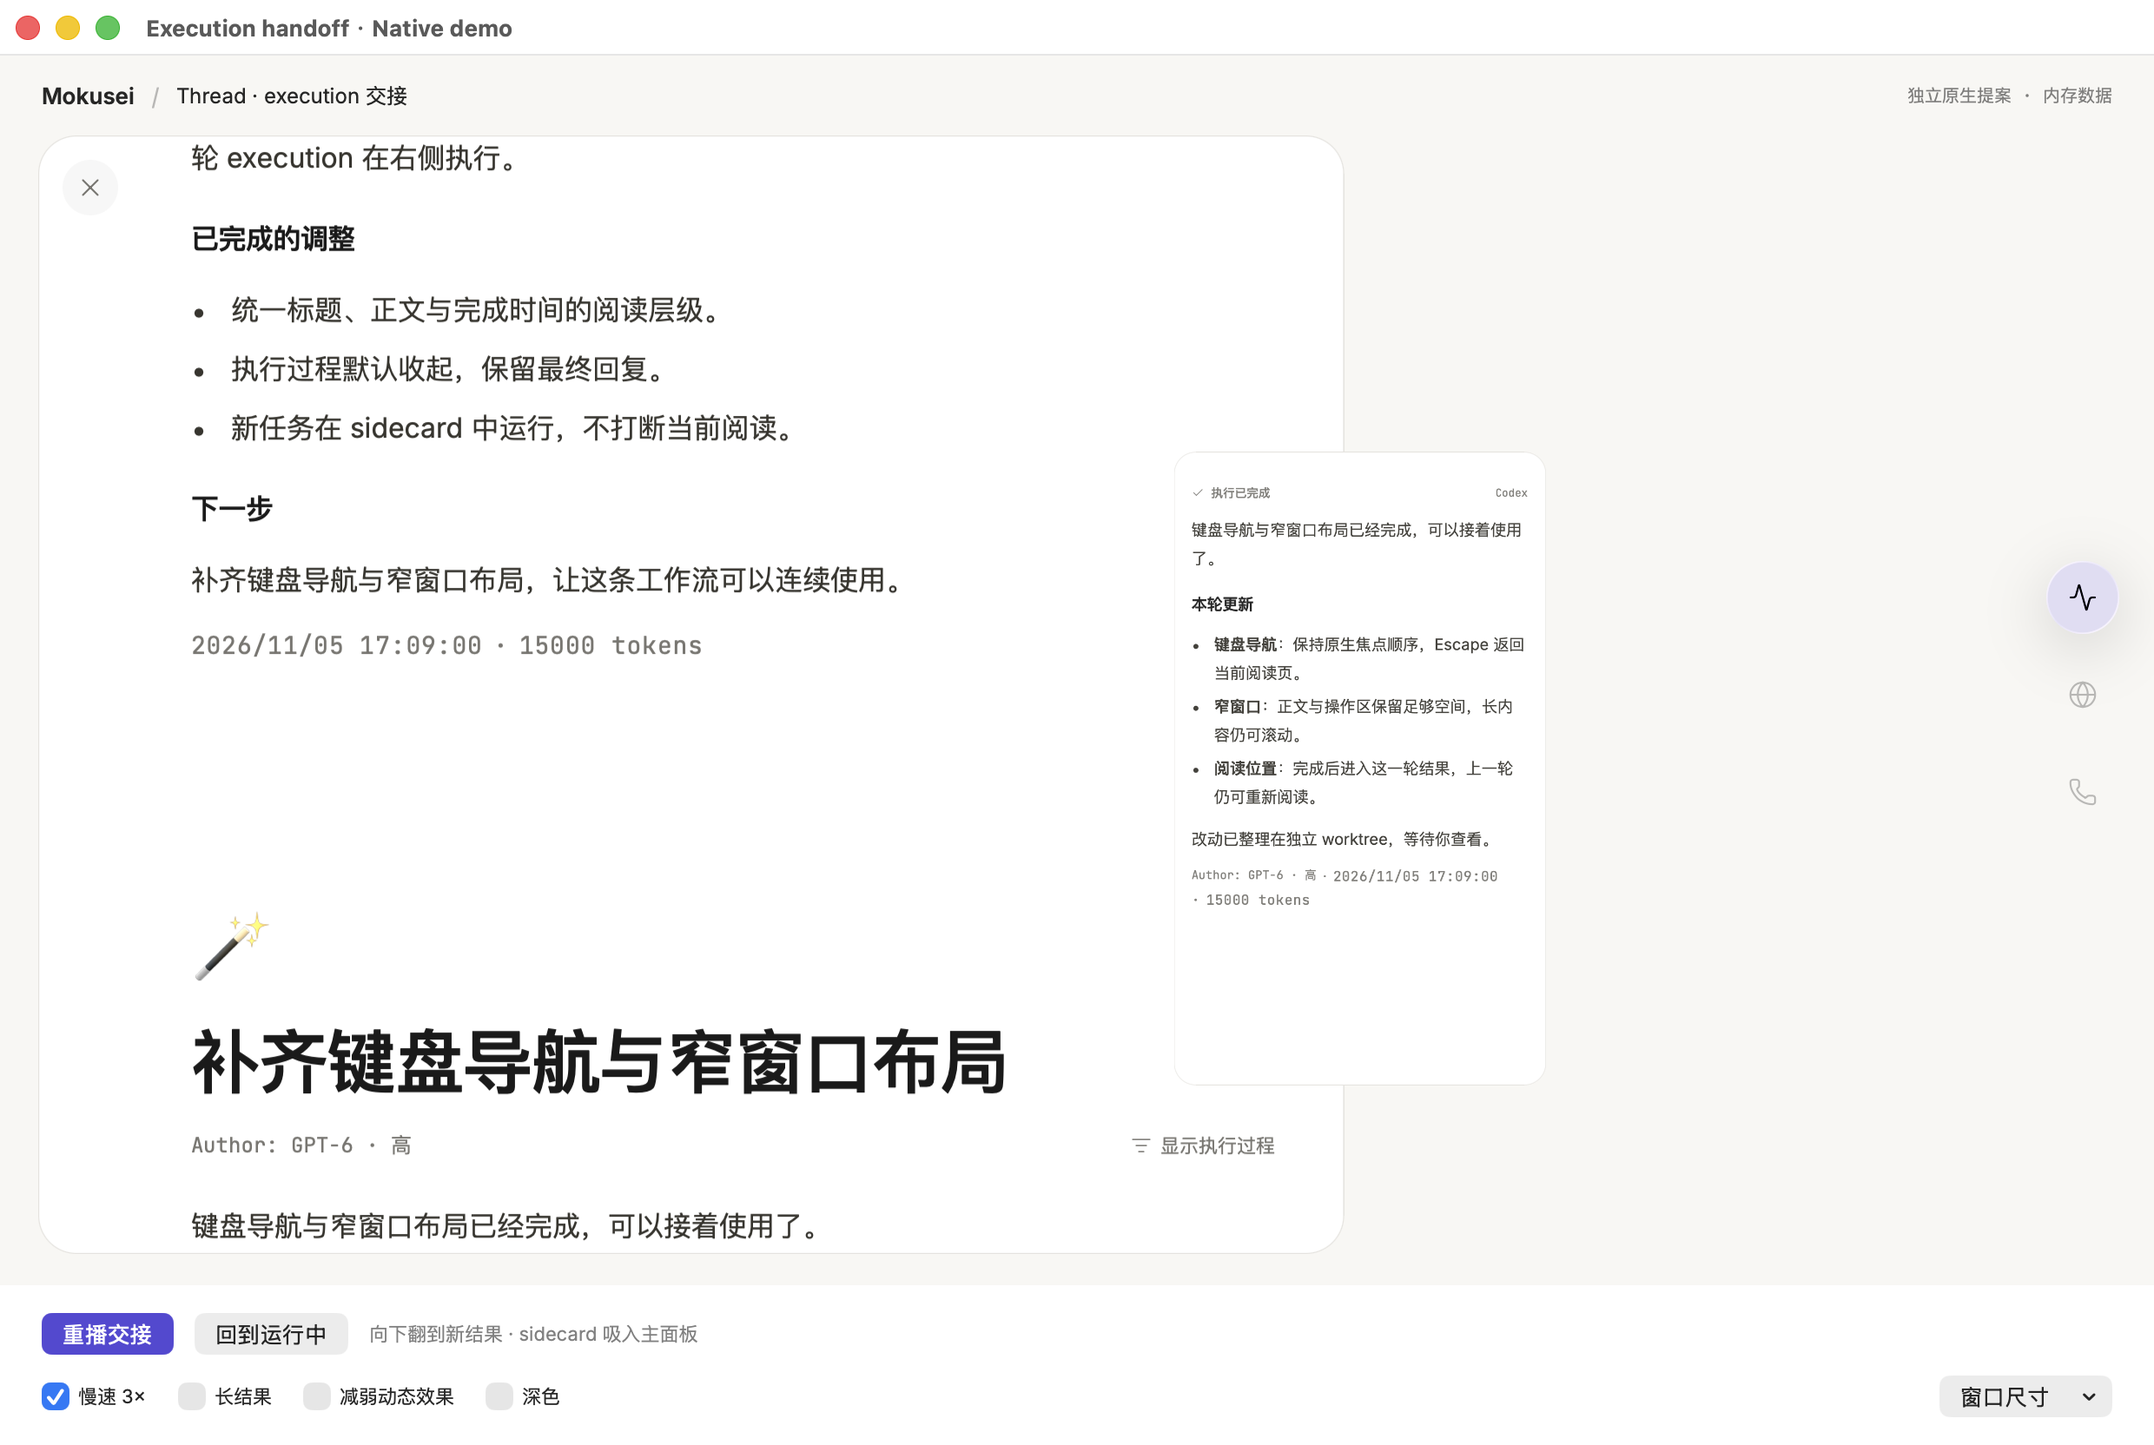
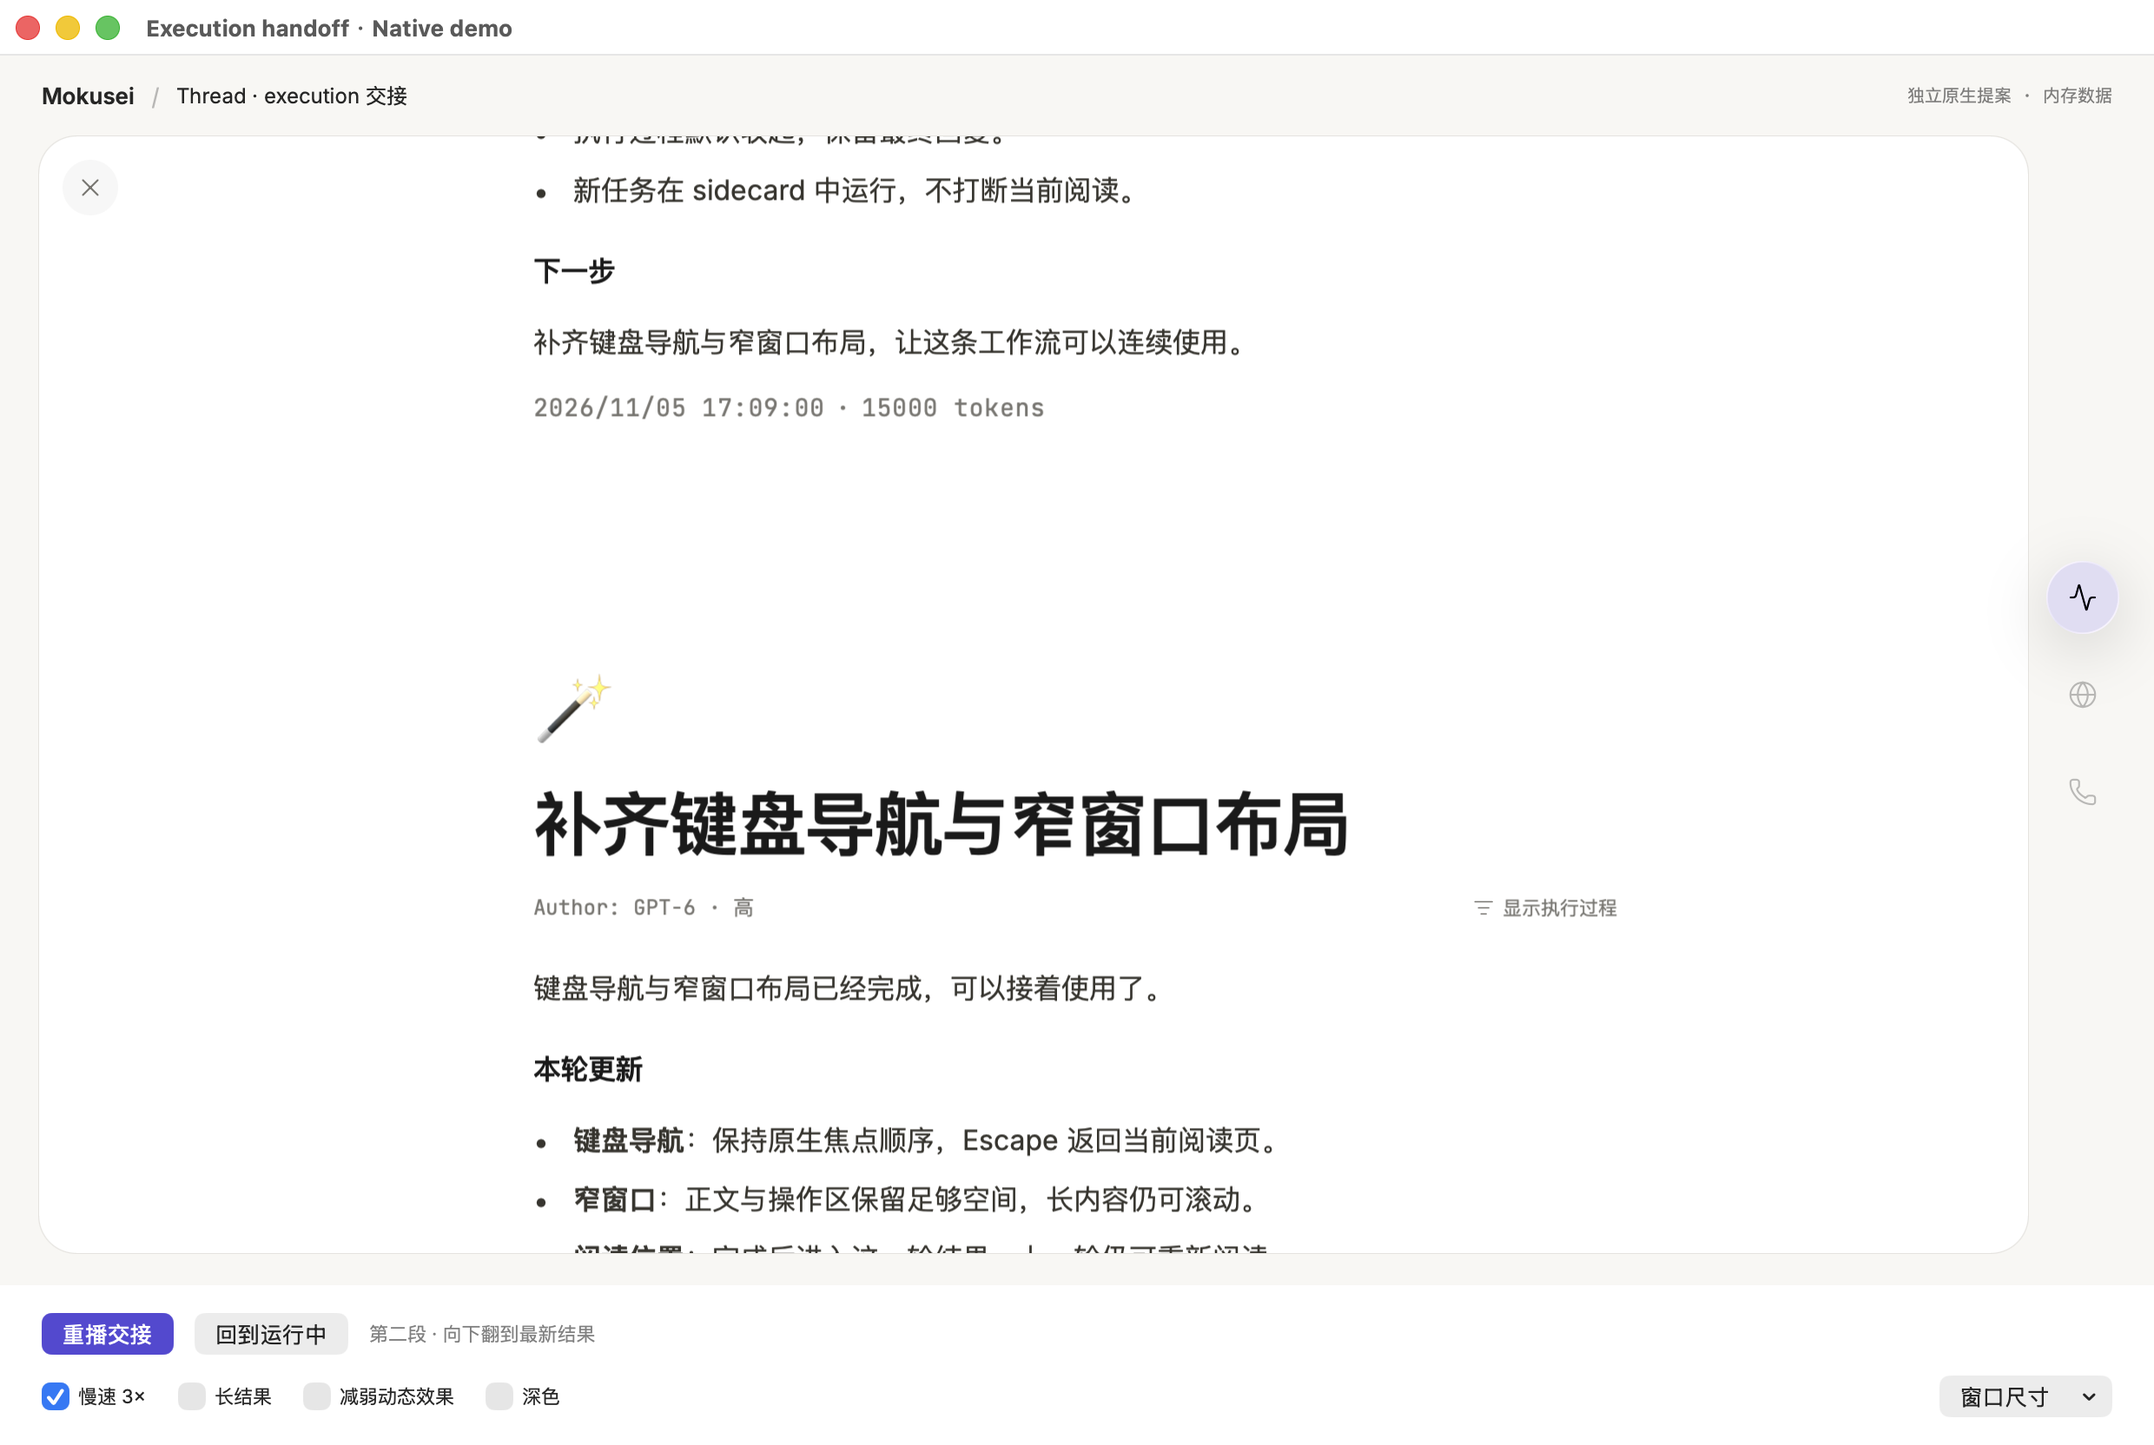
Sequence demo absorption before page travel
First slide the full-size sidecard behind the widening main panel, keeping
the previous execution readable. Start vertical page travel only from the
width animation completion so the two stages remain distinct.

Remove the detailed scaling and fading choreography. Refresh demo guidance
and presentation evidence. Demo compilation and capture completed; no tests
were added or run under the requested sprint workflow.

diff --git a/demos/execution-handoff/HandoffStage.swift b/demos/execution-handoff/HandoffStage.swift
@@ -154,7 +154,7 @@ private struct ReaderSeat: View {
             catch { return }
             guard let self, generation == visit, playing else { return }
             layoutSubtreeIfNeeded()
-            if reduced { settle() } else { turnPage(visit: visit) }
+            if reduced { settle() } else { absorbAndExpand(visit: visit) }
         }
     }
 
@@ -201,7 +201,7 @@ private struct ReaderSeat: View {
 
     private func turnPage(visit: UUID) {
         guard bounds.height > 0 else { return }
-        report("向下翻到新结果 · sidecard 吸入主面板", busy: true)
+        report("第二段 · 向下翻到最新结果", busy: true)
         latest.isHidden = false
         let duration = NativeReadingPageTiming.duration * (slow ? 3 : 1)
         CATransaction.begin(); CATransaction.setDisableActions(true)
@@ -209,59 +209,46 @@ private struct ReaderSeat: View {
         CATransaction.commit()
         animate(previous.layer!, key: "transform.translation.y", from: 0, to: -bounds.height,
             duration: duration, retain: true)
-        absorbSidecard(duration: duration)
         animate(latest.layer!, key: "transform.translation.y", from: bounds.height, to: 0, duration: duration) { [weak self] in
             guard let self, generation == visit, playing else { return }
             previous.isHidden = true
-            sideShell.isHidden = true
-            expandMain(visit: visit)
-        }
-    }
-
-    private func absorbSidecard(duration: Double) {
-        // Pull the retained source into the lower-right area of the arriving
-        // page. Geometry stays inside the main panel, never at the launcher.
-        // Scale the rendered source as a whole, preserving native text layout.
-        // Presentation-only travel keeps its model viewport alive until hidden.
-        let scale = 0.08
-        let destination = CGPoint(x: mainRect.width * 0.72 - sideRect.width * scale / 2,
-            y: mainRect.height * 0.64 - sideRect.height * scale / 2)
-        let source = NSValue(point: sideShell.layer!.position)
-        // A brief shared onset leaves the result legible, then the source
-        // accelerates into the incoming page and disappears at the same landing.
-        keyframes(sideShell.layer!, key: "position", values: [source, source, NSValue(point: destination)],
-            times: [0, 0.12, 1], duration: duration)
-        keyframes(sideShell.layer!, key: "transform.scale", values: [1, 1, scale],
-            times: [0, 0.12, 1], duration: duration)
-        keyframes(sideShell.layer!, key: "opacity", values: [1, 1, 0], times: [0, 0.62, 1], duration: duration)
-        keyframes(side.layer!, key: "opacity", values: [1, 1, 0], times: [0, 0.32, 1], duration: duration)
-    }
-
-    private func expandMain(visit: UUID) {
-        report("sidecard 已吸入 · 新结果停靠，主面板展开", busy: true)
-        let duration = 0.30 * (slow ? 3 : 1)
-        let mainPosition = mainShell.layer!.position
-        let mainBounds = mainShell.layer!.bounds
-        let pagePosition = latest.layer!.position
-        CATransaction.begin(); CATransaction.setDisableActions(true)
-        mainShell.frame = fullRect
-        latest.frame.origin.x = (fullRect.width - pageWidth) / 2
-        CATransaction.commit()
-        animate(mainShell.layer!, key: "position", from: mainPosition, to: mainShell.layer!.position, duration: duration)
-        animate(latest.layer!, key: "position", from: pagePosition, to: latest.layer!.position, duration: duration)
-        animate(mainShell.layer!, key: "bounds", from: mainBounds, to: mainShell.layer!.bounds, duration: duration) { [weak self] in
-            guard let self, generation == visit, playing else { return }
             settle()
         }
     }
 
-    private func keyframes(_ layer: CALayer, key: String, values: [Any], times: [NSNumber], duration: Double) {
-        let animation = CAKeyframeAnimation(keyPath: key)
-        animation.values = values; animation.keyTimes = times; animation.duration = duration
-        animation.isRemovedOnCompletion = false; animation.fillMode = .forwards
-        animation.timingFunctions = [CAMediaTimingFunction(name: .linear),
-            CAMediaTimingFunction(controlPoints: 0.42, 0, 0.2, 1)]
-        layer.add(animation, forKey: key)
+    private func absorbSidecard(duration: Double) {
+        // Slide the full-size card behind the widening opaque main panel.
+        // Occlusion alone communicates absorption; no scale or fade is needed.
+        // Its model viewport stays alive until the first stage has completed.
+        sideShell.layer?.zPosition = -1
+        let destination = CGPoint(x: mainRect.width - sideRect.width * 0.2, y: sideRect.minY)
+        animate(sideShell.layer!, key: "position", from: sideShell.layer!.position, to: destination,
+            duration: duration, retain: true)
+    }
+
+    private func absorbAndExpand(visit: UUID) {
+        report("第一段 · sidecard 收入，主面板变宽", busy: true)
+        let duration = NativeReadingPageTiming.duration * (slow ? 3 : 1)
+        let mainPosition = mainShell.layer!.position
+        let mainBounds = mainShell.layer!.bounds
+        let previousPosition = previous.layer!.position
+        let latestPosition = latest.layer!.position
+        CATransaction.begin(); CATransaction.setDisableActions(true)
+        mainShell.frame = fullRect
+        previous.frame.origin.x = (fullRect.width - pageWidth) / 2
+        latest.frame.origin.x = (fullRect.width - pageWidth) / 2
+        CATransaction.commit()
+        absorbSidecard(duration: duration)
+        animate(mainShell.layer!, key: "position", from: mainPosition, to: mainShell.layer!.position, duration: duration)
+        animate(previous.layer!, key: "position", from: previousPosition, to: previous.layer!.position, duration: duration)
+        animate(latest.layer!, key: "position", from: latestPosition, to: latest.layer!.position, duration: duration)
+        animate(mainShell.layer!, key: "bounds", from: mainBounds, to: mainShell.layer!.bounds, duration: duration) { [weak self] in
+            guard let self, generation == visit, playing else { return }
+            sideShell.isHidden = true
+            // The actual width-animation completion owns this phase boundary;
+            // no timer can start page travel while the first stage is moving.
+            turnPage(visit: visit)
+        }
     }
 
     private func animate(_ layer: CALayer, key: String, from: Any, to: Any, duration: Double,

diff --git a/demos/execution-handoff/README.md b/demos/execution-handoff/README.md
@@ -1,7 +1,7 @@
 # Execution 完成交接 · 原生动画提案
 
-这是独立 demo，不接入生产交接。主 detail 从上一轮向下翻到最新结果，
-sidecard 的完成内容随外壳向左下吸入主面板，与新页的进入同步消隐。支持反复播放、
+这是独立 demo，不接入生产交接。采用两段顺序动画：先让 sidecard 收入
+变宽的主面板，再让主 detail 从上一轮向下翻到最新结果。支持反复播放、
 原生滚动与文本选择、慢速、长结果、深浅色和减弱动态效果。
 
 ## 启动
@@ -40,7 +40,7 @@ app、资源及独立工作目录位于 `/private/tmp/mokusei-native-replay-exec
 | 主面板 Close | 恢复运行中，不关闭独立 demo。 |
 | 慢速 3× | 下一段几何动画使用三倍时长，便于观察裁切和交接。 |
 | 长结果 | 换用可滚动的长 Markdown fixture，并恢复运行中。 |
-| 减弱动态效果 | 跳过翻页、吸入、淡出与完成停顿；仍等待正文排版。 |
+| 减弱动态效果 | 跳过收入、变宽、翻页与完成停顿；仍等待正文排版。 |
 | 深色 / 窗口尺寸 | 对比生产配色及 960×680、1240×800 的双栏布局。 |
 
 系统 Reduce Motion 始终优先：开启时无法用 demo 开关覆盖。系统设置变化
@@ -69,22 +69,22 @@ demo 复用 `ThreadConversation`、`HarnessMessageTimeline`、`ThreadDetailTurn`
 Browser / Voice 图标仅用于保持场景，不提供操作能力。
 
 完成按钮保留正在阅读的上一轮 reader 及滚动位置，只更新 sidecard 的完成内容。
-新结果在裁切区域之外准备，通过 `NativeMarkdownView.onDocumentApplied` 确认
+新结果在透明度门禁后准备，通过 `NativeMarkdownView.onDocumentApplied` 确认
 各文档排版后，保留 220ms 完成状态，再执行：
 
-1. 420ms：旧页整页向上离开，新页从底部进入；sidecard 在同一时段向
-   主面板右下方的新内容入口移动并整体缩小，文字先淡出，外壳在落点消隐。
-   吸入从翻页进度的 12% 开始，外壳最后 38% 淡出，结束点落在主面板内部。
-2. 300ms：新页与 sidecard 同时完成交接后，主外壳扩展到空出的空间，
-   已就绪的正文列居中平移；不重新排版，也不再飞向 launcher。
+1. 420ms：sidecard 保持原尺寸向左收入主面板后方，由正在变宽的主面板
+   自然遮住。上一轮正文保持可读并居中平移；新结果尚不出现。不缩小、不渐出。
+2. 第一段的宽度动画真实完成后，再执行 420ms 纵向翻页：旧页整页向上离开，
+   新页从底部进入。此时主面板已经全宽，不再改变宽度或收入 sidecard。
 3. 解除新阅读页的输入与辅助功能门禁，恢复滚动与选择；不请求焦点。
 
 待进入 reader 先在透明度门禁后准备，AppKit 的 model viewport 在旅行期间
 保留在可见区域，避免 TextKit 提前裁掉原生文字。Core Animation 单独移动呈现层，
-离开的页面与 sidecard 保留动画终值直到完成回调将其隐藏。主正文保持原字号，
-sidecard 的整体缩小只作用于呈现层；文本排版宽度在一次交接中保持不变，
+离开的页面与 sidecard 保留动画终值直到完成回调将其隐藏。主正文与 sidecard
+保持原字号；文本排版宽度在一次交接中保持不变，
 只在用户调整窗口时重新排版。动画 completion、排版回调、取消与重播均由 visit identity 隔离。
-减弱动态效果移除几何与淡出动画，不以固定延时替代内容就绪。
+两段动画由第一段的 completion 串联，不以计时器猜测第一段是否结束。
+减弱动态效果移除几何动画，不以固定延时替代内容就绪。
 
 这里的接管、宽度策略、时序、Close 行为均是 demo 提案。生产源码、业务状态机、
 存储及导航未修改；不能把此展示当作真实 Harness/Runtime 交接的集成认证。

diff --git a/demos/execution-handoff/validation.md b/demos/execution-handoff/validation.md
@@ -12,15 +12,15 @@
 - `python3 demos/execution-handoff/build.py --skip-build --capture --open`：
   demo 以 Swift 6、warnings-as-errors 编译、ad-hoc 签名并启动，退出状态 0。
   展示序列不含测试断言或测试运行器。独立 app 已打开，供继续交互。
-- 观察运行中、完成停顿、翻页与 sidecard 同步吸入的中间帧、完整接管、取消后恢复、
+- 观察运行中、完成停顿、先收入并变宽、再翻页的两段中间帧、完整接管、取消后恢复、
   960×680 深色长结果及 demo 减弱动态效果路径。标准窗口为 1240×800。
-- 在最终 app 的实际 UI 中点击「长结果」和「完成新 execution」，
+- 前版在实际 UI 中点击「长结果」和「完成新 execution」，
   确认主 detail 接管后只暴露最新 reader，再用原生滚动滚至文末；
-  无障碍滚动条值从 0 到 1。
+  无障碍滚动条值从 0 到 1。本次只改变外层动画顺序与收入表现，未重复这一交互观察。
 - 审查取消/重播的 visit fence、正文 readiness、原生 layer/frame 所有权、
   固定文字宽度、输入/辅助功能门禁；Python 入口语法、文档链接和 diff 检查。
 
-保留 [初始状态](evidence/running.png)、[向下翻页中间帧](evidence/paging.png)、
+保留 [初始状态](evidence/running.png)、[收入并变宽](evidence/absorbing.png)、[向下翻页中间帧](evidence/paging.png)、
 [接管完成](evidence/complete.png) 及 [观察时刻](evidence/samples.json)。
 其余截图、stdout/stderr、runtime-isolation.json 与 cleanup.json 保存在
 `.build/execution-handoff/evidence/`；最终展示进程 stderr 为空。
@@ -31,8 +31,9 @@
 初版待进入页面的 layer 位移会被原生布局覆盖；把 model frame 移出视口又会
 让 TextKit 提前裁掉文字。最终采用独立 AppKit seat、透明度准备门禁和仅作用于
 呈现层的旅行，保留可见 model viewport 到隐藏时刻。重新构建后的初始画面显示
-上一轮，翻页中间帧显示旧页向上、新页从底部进入，以及 sidecard 内容随整卡
-吸入主面板。完成操作保留现有主 reader，避免重新挂载时的空白与滚动丢失。
+上一轮。第一段只收入 sidecard 并让主面板变宽，以遮挡表达收入，不缩小或渐出；
+宽度动画完成回调才启动第二段，旧页向上、新页从底部进入。
+完成操作保留现有主 reader，避免重新挂载时的空白与滚动丢失。
 Close 从页面内部移到主面板固定左上角，避免随正文移动或居中。
 
 ## 未执行与限制

diff --git a/demos/README.md b/demos/README.md
@@ -6,7 +6,7 @@
 | --- | --- |
 | [Report Thread 卡片与展开](report-thread/README.md) | 已确认设计对照及正式组件 fixture：emoji / 短介绍 / harness logo 卡片、右侧关联列表 2:8、执行阅读 5:5；生产契约已接入。 |
 | [Agent Thread 面板转场](thread-panel-transition/README.md) | 生产 compositor、身份交接和双向正文揭示的 fixture 回放；保留此前独立提案作对照，Moku 常驻。 |
-| [Execution 完成交接](execution-handoff/README.md) | 独立原生提案：复用生产 reader，主 detail 向下翻到新结果，sidecard 同步吸入主面板；支持重复播放、慢速及减弱动态效果，不修改生产交接。 |
+| [Execution 完成交接](execution-handoff/README.md) | 独立原生提案：先收入 sidecard 并让主面板变宽，再向下翻到新结果；支持重复播放、慢速及减弱动态效果，不修改生产交接。 |
 | [Overview / glass world](../tools/verification/overview-input/README.md) | 当前生产 Canvas、Harness/Report 卡片、Chrome 和 Moku Dock；含浅深色 × 材质开关的隔离截图。 |
 | [Tag morph](tag-filter-morph/README.md) | 当前生产 `NativeOverviewChrome` 标签回放。 |
 | [Overview 搜索](overview-thread-search/README.md) | 当前生产搜索、筛选与几何回放。 |
